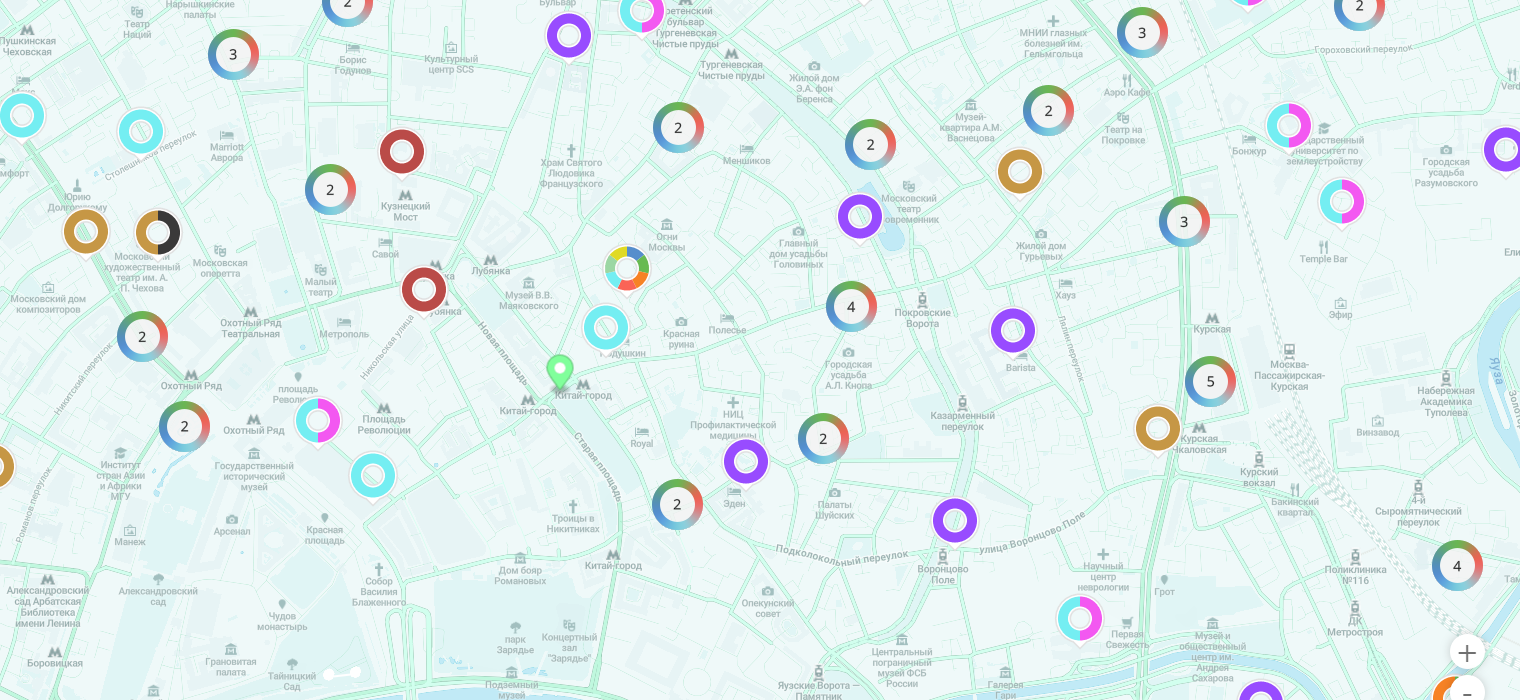
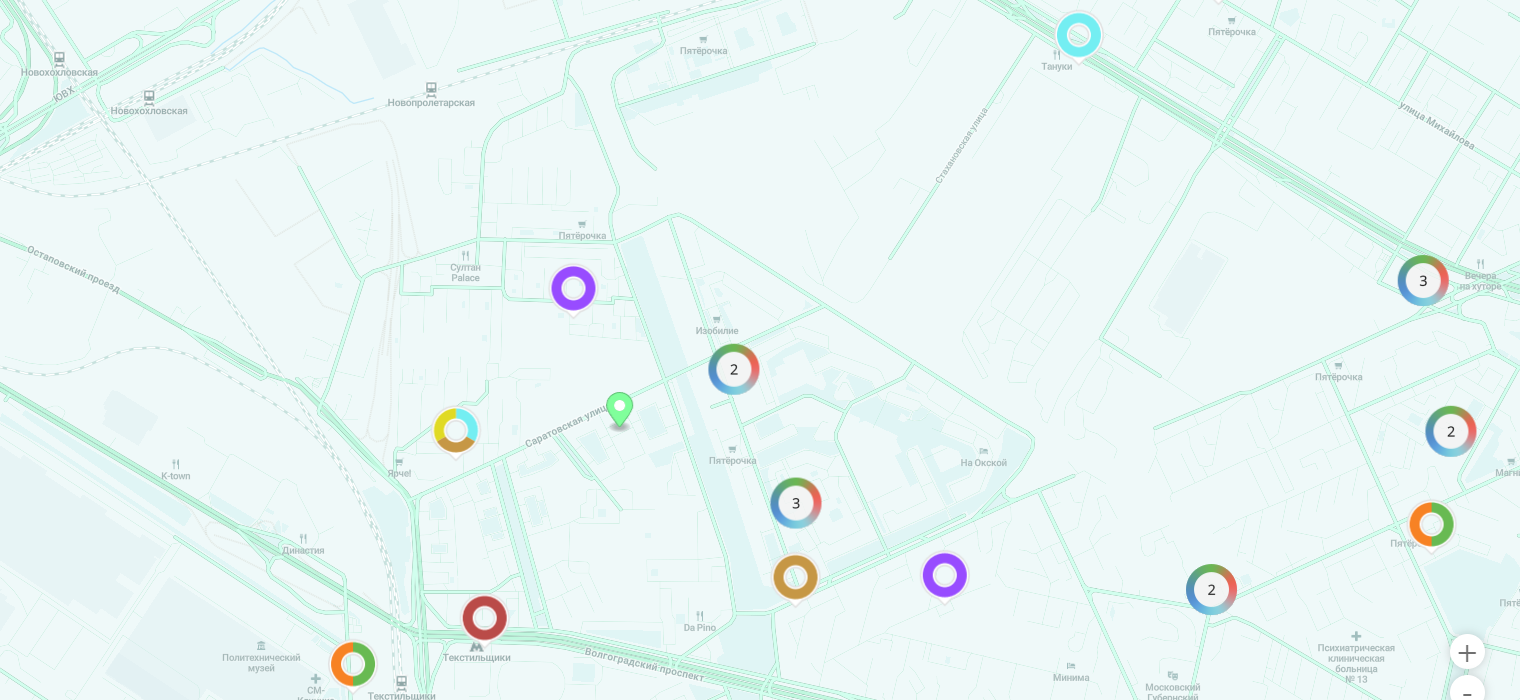
1

diff --git a/1.py b/1.py
@@ -1,0 +1,71 @@
+import telebot
+from dadata import Dadata
+from selenium import webdriver
+import time
+from webdriver_manager.chrome import ChromeDriverManager
+from selenium.webdriver.common.keys import Keys
+from selenium.webdriver.common.by import By
+from PIL import Image
+from telebot import types
+import os
+from selenium.webdriver.chrome.options import Options
+
+bot = telebot.TeleBot('5318941676:AAE65AOZ11ylYJJmajr1PoJ2yM41xMpTVLo')
+dadata_token = "6c6c51197b8eb6501d4d469c891aab2613f67420"
+
+dadata = Dadata(dadata_token)
+
+
+@bot.message_handler(content_types=['text'])
+def start(message):
+    if message.text == '/start':
+        bot.send_message(message.from_user.id,
+                         "Здравствуйте, я бот, который поможет вам сохранить землю в чистоте. Я подскажу вам, где находится бллижайший пункт по сортировке отходов, а так же смогу помочь с определением типа отходов. Напишите /find для нахождения ближайших сортировок, напишите /opr для помощи с определением.")
+    elif message.text == '/find':
+        bot.send_message(message.from_user.id, "Отправьте мне вашу геолокацию")
+    elif message.text == '/opr':
+        bot.send_message(message.from_user.id, "Отправьте мне вашу геолокацию")
+    elif message.text == 'Узнать значение цветов':
+        img = open('inf.png', 'rb')
+        bot.send_photo(message.from_user.id, img)
+    else:
+        bot.send_message(message.from_user.id, "Напишите /start")
+
+
+@bot.message_handler(content_types=['location'])
+def find(message):
+    lon, lat = message.location.longitude, message.location.latitude
+    print(message.location)
+    result = dadata.geolocate(name="address", lat=lat, lon=lon)[0]
+    country = result['data']['country']
+    region = result['data']['region']
+    city = result['data']['city']
+    postal_code = result['data']['postal_code']
+    street = result['data']['street']
+    street_type_full = result['data']['street_type_full']
+    house = result['data']['house']
+    result = ' '.join([country, region, city, postal_code, street, street_type_full, house])
+    driver = webdriver.Chrome(ChromeDriverManager().install())
+
+    driver.maximize_window()
+
+    driver.get('https://recyclemap.ru/')
+    element = driver.find_element(By.CLASS_NAME, "mapboxgl-ctrl-geocoder--input")
+    element.send_keys(result)
+    time.sleep(1)
+    element.send_keys(Keys.ENTER)
+    time.sleep(1)
+    driver.get_screenshot_as_file("MapScreen.png")
+    driver.close()
+    im = Image.open('MapScreen.png')
+    im.crop((400, 100, 1920, 800)).save('MapScreen.png')
+    img = open('MapScreen.png', 'rb')
+    markup = types.ReplyKeyboardMarkup(resize_keyboard=True)
+    btn1 = types.KeyboardButton("Узнать значение цветов")
+    markup.add(btn1)
+    bot.send_photo(message.chat.id, img, reply_markup=markup)
+
+
+bot.polling(none_stop=True)
+
+

diff --git a/main.py b/main.py
@@ -48,9 +48,9 @@ def find(message):
     result = 'Россия, Москва, Москва, округ Текстильщики, 109518, Саратовская Улица'
     chrome_options = webdriver.ChromeOptions()
     chrome_options.binary_location = os.environ.get("GOOGLE_CHROME_BIN")
-    chrome_options.add_argument("--headless")
-    chrome_options.add_argument("--disable-dev-shm-usage")
-    chrome_options.add_argument("--no-sandbox")
+    # chrome_options.add_argument("--headless")
+    # chrome_options.add_argument("--disable-dev-shm-usage")
+    # chrome_options.add_argument("--no-sandbox")
     driver = webdriver.Chrome(executable_path=os.environ.get("CHROMEDRIVER_PATH"), chrome_options=chrome_options)
     bot.send_message(message.chat.id, "create driver")
     driver.get('https://recyclemap.ru/')
